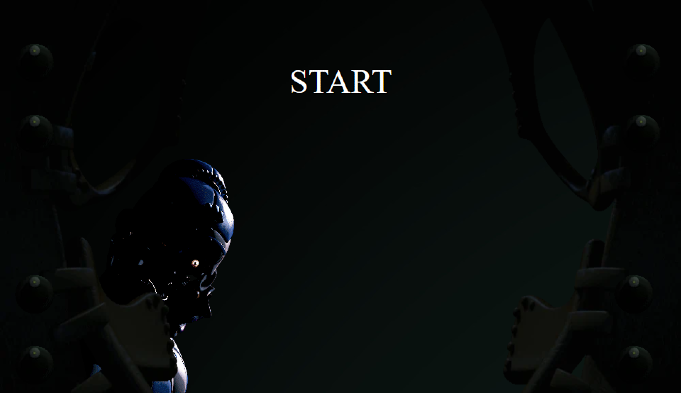
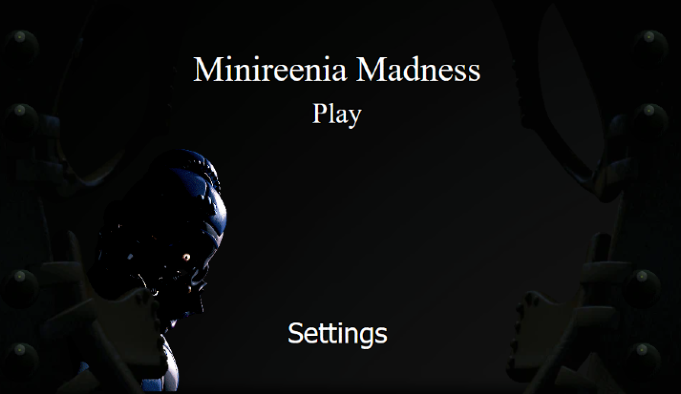
Mini Madness Update

diff --git a/miniGames/SLNight4/index.html b/miniGames/SLNight4/index.html
@@ -127,12 +127,12 @@
 
         #sliderD {
             z-index: 10;
-            top: 60%;
+            top: 59%;
         }
 
         #sliderC {
             z-index: 10;
-            top: 65%;
+            top: 64%;
         }
 
         #settingsText {
@@ -197,9 +197,11 @@
         sliderB.style.visibility = 'hidden'
         sliderD.style.visibility = 'hidden'
         sliderC.style.visibility = 'hidden'
-        var S1 = sliderB.value;
-        var S2 = sliderD.value;
-        var S3 = sliderC.value;
+        // sliderB.min
+        var S1 = parseInt(sliderB.value);
+        var S2 = parseInt(sliderD.value);
+        var S3 = parseInt(sliderC.value);
+
         BG.style.filter = `brightness(${S1 / 10}) blur(${S1}px) saturate(${S1 / 200})`
         SText.style.visibility = 'hidden'
         var time = { minutes: 3, seconds: 1 }
@@ -208,6 +210,7 @@
         var left = false
         var right = false
         var timer
+        var modifier
         var flash
         var miniLogic
         var springLogic
@@ -220,7 +223,6 @@
         var made = false
         var hover = false
         var mini = document.getElementById("mini")
-
         for (let i = 0; i < 8; i++) {
             let img = document.createElement("img")
             img.style.position = "absolute"
@@ -277,11 +279,23 @@
         }
         setInterval(() => {
             if (settings) {
-                S1 = sliderB.value;
-                S2 = sliderD.value;
-                S3 = sliderC.value;
-                SText.innerHTML = `Background Brightness: ${S1}
-                    <br><br>sliderD Rate: ${S2}<br><br>Minireena Speed: ${S3}`
+                S1 = parseInt(sliderB.value);
+                S2 = parseInt(sliderD.value);
+                S3 = parseInt(sliderC.value);
+                if (S3 >= 70) {
+                    modifier = .5
+                }
+                else if (S3 <= 30) {
+                    modifier = 2
+                }
+                else {
+                    modifier = 1
+                }
+
+
+                SText.innerHTML = `Background Brightness: ${S1 == 10 ? "Default" : S1}
+                <br><br>Decay Rate: ${S2 == 50 ? "Default" : S2}<br><br>Minireena Speed: ${S3 == 50 ? "Default" : S3}`
+
                 BG.style.filter = `brightness(${S1 / 10}) blur(${S1}px) saturate(${S1 / 200})`
 
             }
@@ -289,6 +303,14 @@
 
 
         var Game = () => {
+            if (settings) {
+                settings = false
+                sliderB.style.visibility = 'hidden'
+                sliderD.style.visibility = 'hidden'
+                sliderC.style.visibility = 'hidden'
+                SText.style.visibility = 'hidden'
+
+            }
             settElement.style.visibility = "hidden"
             timerElement.style.cursor = "auto"
             timerElement.onclick = ""
@@ -308,8 +330,8 @@
             miniLogic = setInterval(() => {
                 //create mini
                 if (!crawler) {
-                    crawlerChance = Math.floor(Math.random() * 2000)
-                    crawlerChance = 1
+                    crawlerChance = Math.floor(Math.random() * 5000 * modifier)
+                    // crawlerChance = 1
                     if (crawlerChance <= 1) {
                         crawler = true
                         if (!made) {
@@ -321,6 +343,7 @@
 
                             document.body.appendChild(img)
                             img.style.top = "800px"
+                            distance = window.innerHeight
                             sideChance = Math.round(Math.random() * 1)
                             if (sideChance == 0) {
                                 img.style.left = "29%"
@@ -339,7 +362,7 @@
                     //movement logic
                     if (!shaken) {
                         img = document.getElementsByClassName('mini')[0]
-                        distance -= .07 * window.innerHeight / 100
+                        distance -= (S3 + 19) * window.innerHeight * .1 / 1000
 
                         img.style.top = distance + "px"
                         if (distance < 50) {
@@ -361,6 +384,7 @@
                                 shaken = false
                                 made = false
                                 left = false
+
                             }
                         }
 
@@ -399,8 +423,7 @@
                     }
 
                     else if (spring.counter >= 0 && !spring.hover) {
-                        spring.counter += sliderD.value / 2500
-
+                        spring.counter += S2 / 2500
                     }
                     else if (spring.counter >= 0 && spring.hover) {
                         if (spring.counter > 1) {

diff --git a/index.html b/index.html
@@ -44,14 +44,15 @@
 	<script>
 		let userAgent = navigator.userAgent;
 		let browserName;
-		function browserTest() {
-			if (userAgent.match(/firefox|fxios/i)) {
-			}
-			else {
-				alert("Lel go 2 FireFox u  nerd")
-				location.reload();
-			}
-		}
+		// function browserTest() {
+		// 	if (userAgent.match(/firefox|fxios/i)) {
+		// 	}
+		// 	else {
+		// 		alert("Lel go 2 FireFox u  nerd")
+		// 		location.reload();
+		// 	}
+		// }
+
 		// const TYPEWRITERSPEED = 150
 		var typewriterSpeed = 75
 		const cursorFlashSpeed = 350
